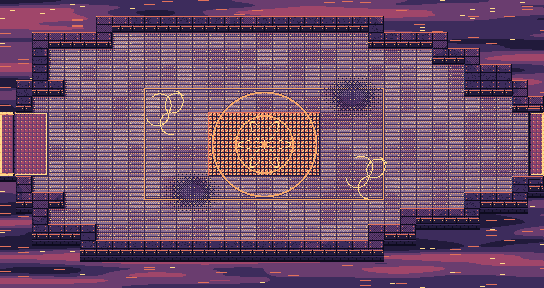
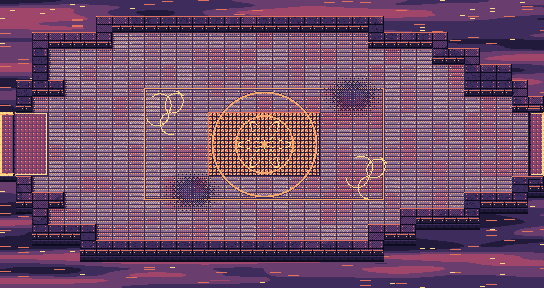
Luxel Epic: The Long Night integration pass

diff --git a/tools/epic/themes/island_3_4.py b/tools/epic/themes/island_3_4.py
@@ -154,11 +154,11 @@ class HollowOakPainter(ThemePainter):
         edge_e = (~ctx["n_rt_path"]) & (lx == ts - 1)
         is_edge = edge_n | edge_s | edge_w | edge_e
 
-        # Warm heartwood boardwalk / woven-bark walkway
-        out = ramp_blend(("plum", "wine", "mauve"), np.clip(nb * 0.55 + 0.35, 0.0, 0.999), bg)
+        # Warm heartwood boardwalk / woven-bark walkway (calm, cohesive with living bark)
+        out = ramp_blend(("dusk", "plum", "wine"), np.clip(nb * 0.50 + 0.36, 0.0, 0.999), bg)
         # Wide calm 8px bark-plank seams
-        out = np.where((ly % 8 == 0) & (bg < 0.58), IX["dusk"], out)
-        out = np.where((ly % 8 == 1) & (nb > 0.52) & (bg < 0.36), IX["coral"], out)
+        out = np.where((ly % 8 == 0) & (bg < 0.58), IX["night"], out)
+        out = np.where((ly % 8 == 1) & (nb > 0.55) & (bg < 0.34), IX["mauve"], out)
         # Warm amber sap-studs near walkway edges
         in_edge = (
             ((~ctx["n_up_path"]) & (ly == 1))
@@ -167,7 +167,7 @@ class HollowOakPainter(ThemePainter):
             | ((~ctx["n_rt_path"]) & (lx == ts - 2))
         )
         out = np.where(in_edge & (((xs + ys) % 6) == 0), IX["apricot"], out)
-        out = np.where(is_edge & (bg < 0.78), IX["dusk"], out)
+        out = np.where(is_edge & (bg < 0.78), IX["night"], out)
         buf[mask] = out[mask]
 
     def paint_walls(self, buf: np.ndarray, ctx: dict[str, Any]) -> None:
@@ -247,14 +247,15 @@ class HollowOakPainter(ThemePainter):
             sh_ring = (~m_wall) & (~over) & ctx["m_walk"] & (dist_w <= 7.5) & (root_n > 0.52) & (bg < 0.35)
             buf[sh_ring] = SHADE_IX[buf[sh_ring]]
 
-        # 3. Terraced glowing shelf-fungus brackets clinging to south-facing bark walls!
+        # 3. Terraced glowing shelf-fungus brackets clinging to interior south-facing bark walls (skip map bottom row)
+        interior_south = m_wall & dn_open & (ctx["ty"] < ctx["h_t"] - 1)
         bx_id = xs // 24
         by_id = ys // ts
         bh = hash01_grid(bx_id, by_id, s.seed + 631)
         fx = (xs % 24) - 12
         fy = ly - (ts - 4)
         # Organic half-oval shelf fungus cap (width ~9px, height ~3px) on selected wall segments
-        has_fungus = m_wall & dn_open & (bh > 0.56)
+        has_fungus = interior_south & (bh > 0.56)
         cap = has_fungus & ((fx * fx) / 20.0 + (fy * fy) / 4.5 <= 1.0) & (fy <= 1)
         cap_top = cap & (fy <= -1)
         cap_mid = cap & (fy == 0)
@@ -266,10 +267,10 @@ class HollowOakPainter(ThemePainter):
         under_f = has_fungus & (ly == ts - 2) & (np.abs(fx) <= 4)
         buf[under_f] = IX["void"]
 
-        # 4. Warm sap-light hollows nestled in bark faces (opposite segments from shelf fungus)
-        sap_seg = m_wall & dn_open & (bh < 0.24) & (np.abs(fx) <= 2) & (ly >= ts - 5) & (ly <= ts - 2)
+        # 4. Warm sap-light hollows nestled in interior bark faces (opposite segments from shelf fungus)
+        sap_seg = interior_south & (bh < 0.24) & (np.abs(fx) <= 2) & (ly >= ts - 5) & (ly <= ts - 2)
         buf[sap_seg] = IX["coral"]
-        sap_core = m_wall & dn_open & (bh < 0.24) & (np.abs(fx) <= 1) & (ly >= ts - 4) & (ly <= ts - 3)
+        sap_core = interior_south & (bh < 0.24) & (np.abs(fx) <= 1) & (ly >= ts - 4) & (ly <= ts - 3)
         buf[sap_core] = IX["gold"]
 
         # 5. Subtle mossy root coping overhanging water basins (softens square pools like oak_r4b!)
@@ -325,38 +326,39 @@ class ConservatoryPainter(ThemePainter):
         slab_h = hash01_grid((xs + ox) // sw, row_id, s.seed + 61)
 
         if sunlit:
-            # Warm sunlit conservatory limestone (harmonious with r1..r14, NOT orange desert sand!)
-            slab_f = np.clip(nb * 0.45 + slab_h * 0.35 + warm * 0.16, 0.0, 0.999)
-            out = ramp_blend(("dusk", "plum", "mauve", "stone"), slab_f, bg)
+            # Warm sunlit conservatory limestone (calm mid-bright ~95-110 luma, NOT blinding orange desert sand!)
+            slab_f = np.clip(nb * 0.45 + slab_h * 0.35 + warm * 0.14, 0.0, 0.999)
+            out = ramp_blend(("dusk", "plum", "mauve", "mauve"), slab_f, bg)
             is_seam = (sx == 0) | (sy == 0)
-            is_bev = (sy == 1) & (sx > 1) & (sx < sw - 2) & ((slab_h > 0.42) | (bg < 0.35))
-            out = np.where(is_bev, IX["cream"], out)
+            is_bev = (sy == 1) & (sx > 1) & (sx < sw - 2) & ((slab_h > 0.48) | (bg < 0.30))
+            out = np.where(is_bev, IX["stone"], out)
             out = np.where(is_seam & (bg < 0.72), IX["dusk"], out)
             # Soft warm sunlit conservatory glass rays drifting diagonally across limestone
-            ray = ((xs - ys * 0.55) % 64.0)
-            in_ray = (ray >= 12.0) & (ray <= 28.0) & (nb > 0.38)
-            out = np.where(in_ray & (~is_seam) & (bg < 0.28), IX["gold"], out)
-            # Occasional delicate rose/sky stained-glass floor reflection
-            pane_tint = ((xs - ys * 0.55) % 96.0)
-            out = np.where((pane_tint >= 52.0) & (pane_tint <= 64.0) & (~is_seam) & (bg < 0.22), IX["rose"], out)
+            ray = (xs - ys * 0.55) % 68.0
+            in_ray = (ray >= 12.0) & (ray <= 26.0) & (nb > 0.38)
+            out = np.where(in_ray & (~is_seam) & (bg < 0.34), IX["stone"], out)
+            out = np.where(in_ray & (~is_seam) & (nb > 0.58) & (bg < 0.22), IX["gold"], out)
+            # Occasional delicate rose stained-glass floor reflection
+            pane_tint = (xs - ys * 0.55) % 96.0
+            out = np.where((pane_tint >= 52.0) & (pane_tint <= 64.0) & (~is_seam) & (bg < 0.20), IX["rose"], out)
         else:
             # Wet stained-glass glasshouse flagstones (target walk_lum ~76-84)
             slab_f = np.clip(nb * 0.48 + slab_h * 0.36 + warm * 0.10, 0.0, 0.999)
-            out = ramp_blend(("dusk", "plum", "mauve"), slab_f, bg)
+            out = ramp_blend(("dusk", "dusk", "plum", "mauve"), slab_f, bg)
             is_seam = (sx == 0) | (sy == 0)
-            is_bev = (sy == 1) & (sx > 1) & (sx < sw - 2) & ((slab_h > 0.48) | (bg < 0.28))
+            is_bev = (sy == 1) & (sx > 1) & (sx < sw - 2) & ((slab_h > 0.52) | (bg < 0.24))
             out = np.where(is_bev, IX["stone"], out)
-            out = np.where(is_seam & (bg < 0.76), IX["night"], out)
+            out = np.where(is_seam & (bg < 0.78), IX["night"], out)
             # Subtle wet conservatory skylight reflections (diagonal stained-glass pools!)
             diag = (xs - ys * 0.6) % 72.0
-            pool_a = (diag >= 10.0) & (diag <= 22.0) & (nb > 0.45) & (~is_seam)
-            pool_b = (diag >= 42.0) & (diag <= 52.0) & (nb > 0.50) & (~is_seam)
-            out = np.where(pool_a & (bg < 0.26), IX["sky"], out)
-            out = np.where(pool_b & (bg < 0.22), IX["rose"], out)
+            pool_a = (diag >= 10.0) & (diag <= 22.0) & (nb > 0.48) & (~is_seam)
+            pool_b = (diag >= 42.0) & (diag <= 52.0) & (nb > 0.52) & (~is_seam)
+            out = np.where(pool_a & (bg < 0.24), IX["sky"], out)
+            out = np.where(pool_b & (bg < 0.20), IX["rose"], out)
             # Wet moss tucked softly into seams near water
             near_w = ctx["n_up_water"] | ctx["n_dn_water"] | ctx["n_lt_water"] | ctx["n_rt_water"]
             out = np.where(near_w & is_seam & (bg < 0.65), IX["teal"], out)
-            out = np.where(near_w & (nf < 0.05), IX["jade"], out)
+            out = np.where(near_w & (nf < 0.04), IX["jade"], out)
 
         buf[mask] = out[mask]
 
@@ -383,10 +385,10 @@ class ConservatoryPainter(ThemePainter):
             | ((~ctx["n_rt_path"]) & (lx == ts - 2))
         )
 
-        main = IX["stone"] if sunlit else IX["mauve"]
-        hi = IX["cream"] if sunlit else IX["stone"]
-        edge_c = IX["plum"] if sunlit else IX["dusk"]
-        trim_c = IX["gold"]
+        main = IX["mauve"] if sunlit else IX["plum"]
+        hi = IX["stone"] if sunlit else IX["mauve"]
+        edge_c = IX["dusk"]
+        trim_c = IX["gold"] if sunlit else IX["apricot"]
 
         out = np.full(buf.shape, main, dtype=np.uint8)
         out = np.where((nb > 0.54) & (bg < 0.42), hi, out)
@@ -439,8 +441,8 @@ class ConservatoryPainter(ThemePainter):
         out = np.where(mullion, IX["night"], out)
         out = np.where((rib_x == 2) & (rib_y > 1), IX["dusk"], out)
 
-        # South-facing glasshouse wall with arched stained-glass lancets & broken panes
-        south = dn_open & (ly >= ts - 7)
+        # South-facing glasshouse wall with arched stained-glass lancets & broken panes (interior walls only)
+        south = dn_open & (ly >= ts - 7) & (ctx["ty"] < ctx["h_t"] - 1)
         out = np.where(south & (ly == ts - 7), IX["stone"], out)  # carved limestone cornice
         out = np.where(south & (ly > ts - 7) & (ly < ts - 1), IX["dusk"], out)
         # Stained-glass lancet windows every 24px (width 10px: rib_x 7..16)
@@ -502,15 +504,16 @@ class ConservatoryPainter(ThemePainter):
         out = np.where((mist > 0.62) & (bg < 0.45), IX["deep"], np.where((mist > 0.46) & (bg < 0.50), IX["night"], IX["void"]))
 
         # Diagonal wrought-iron conservatory rafters & skylight truss grid receding in the chasm
-        rafter_a = np.abs(((xs + ys) % 48) - 24) <= 1
-        rafter_b = np.abs(((xs - ys) % 48) - 24) <= 1
+        rafter_a = np.abs(((xs + ys) % 44) - 22) <= 1
+        rafter_b = np.abs(((xs - ys) % 44) - 22) <= 1
         cross_rib = (ys % 32 == 16)
         truss = rafter_a | rafter_b | cross_rib
-        out = np.where(truss & (bg < 0.65), IX["night"], out)
-        # Subtle moonlight gleam on iron truss intersections
+        out = np.where(truss & (bg < 0.78), IX["night"], out)
+        # Clearer wrought-iron skylight rib catchlights tying floating islands together
         joint = rafter_a & rafter_b
-        out = np.where(joint, IX["dusk"], out)
-        out = np.where(truss & ((xs % 48 == 24) | (ys % 32 == 16)) & (bg < 0.25), IX["deep"], out)
+        out = np.where(joint, IX["mauve"], out)
+        out = np.where((rafter_a | rafter_b) & (bg < 0.35), IX["dusk"], out)
+        out = np.where(cross_rib & (bg < 0.45), IX["deep"], out)
 
         # Tiny twilight stars / drifting conservatory pollen
         st = hash01_grid(xs, ys, s.seed + 433)
@@ -609,10 +612,10 @@ class RainMausoleumPainter(ThemePainter):
         sy = ys % sh
         slab_h = hash01_grid((xs + ox) // sw, row_id, s.seed + 59)
 
-        slab_f = np.clip(nb * 0.48 + slab_h * 0.38 + warm * 0.08, 0.0, 0.999)
-        out = ramp_blend(("dusk", "plum", "mauve"), slab_f, bg)
+        slab_f = np.clip(nb * 0.48 + slab_h * 0.36 + warm * 0.08, 0.0, 0.999)
+        out = ramp_blend(("dusk", "dusk", "plum", "mauve"), slab_f, bg)
         is_seam = (sx == 0) | (sy == 0)
-        is_bev = (sy == 1) & (sx > 1) & (sx < sw - 2) & ((slab_h > 0.44) | (bg < 0.28))
+        is_bev = (sy == 1) & (sx > 1) & (sx < sw - 2) & ((slab_h > 0.50) | (bg < 0.24))
         out = np.where(is_bev, IX["stone"], out)
         out = np.where(is_seam & (bg < 0.78), IX["night"], out)
 
@@ -660,9 +663,10 @@ class RainMausoleumPainter(ThemePainter):
         bg = ctx["bg"]
         s = self.spec
 
-        # 1. Carved arched mausoleum niches every 32px along south-facing crypt walls
+        # 1. Carved arched mausoleum niches every 32px along interior south-facing crypt walls
+        interior_south = m_wall & dn_open & (ctx["ty"] < ctx["h_t"] - 1)
         ax = xs % 32
-        niche_zone = m_wall & dn_open & (ly >= ts - 6) & (ly <= ts - 2)
+        niche_zone = interior_south & (ly >= ts - 6) & (ly <= ts - 2)
         in_niche = niche_zone & (ax >= 12) & (ax <= 19) & ~((ly == ts - 6) & ((ax == 12) | (ax == 19)))
         # Carved arch frame outline
         niche_rim = (
@@ -681,7 +685,7 @@ class RainMausoleumPainter(ThemePainter):
         buf[urn_lip] = IX["mauve"]
 
         # 2. Vertical rain-streak gloss lines running down south stone faces (between niches)
-        streak = m_wall & dn_open & (~in_niche) & (ly >= ts - 5) & (ly < ts - 1) & ((xs % 11) == 3)
+        streak = interior_south & (~in_niche) & (ly >= ts - 5) & (ly < ts - 1) & ((xs % 11) == 3)
         buf[streak] = IX["sky"]
 
         # 3. Projecting carved stone pilasters & chamfered corner buttresses breaking 12/12 flat boxes
@@ -722,17 +726,17 @@ class CanopySprintPainter(ThemePainter):
         warm = ctx["warm"]
         s = self.spec
 
-        # Warm living oak-branch deck planking (NOT grey stone sewer bricks!)
-        ph = 6
+        # Warm living oak-branch deck planking (calm ~78 luma, NOT grey stone sewer bricks!)
+        ph = 8
         pr = ys // ph
         py = ys % ph
-        butt = (xs + pr * 13) % 28
-        phash = hash01_grid((xs + pr * 13) // 28, pr, s.seed + 73)
-        field = np.clip(nb * 0.45 + phash * 0.35 + warm * 0.14, 0.0, 0.999)
-        out = ramp_blend(("dusk", "plum", "wine", "mauve"), field, bg)
-        out = np.where((py == 0) & (bg < 0.58), IX["night"], out)
-        out = np.where((butt == 0) & (py > 0) & (bg < 0.45), IX["night"], out)
-        out = np.where((py == 1) & (phash > 0.62) & (bg < 0.35), IX["coral"], out)
+        butt = (xs + pr * 15) % 32
+        phash = hash01_grid((xs + pr * 15) // 32, pr, s.seed + 73)
+        field = np.clip(nb * 0.45 + phash * 0.32 + warm * 0.12, 0.0, 0.999)
+        out = ramp_blend(("dusk", "plum", "plum", "wine"), field, bg)
+        out = np.where((py == 0) & (bg < 0.56), IX["night"], out)
+        out = np.where((butt == 0) & (py > 0) & (bg < 0.44), IX["night"], out)
+        out = np.where((py == 1) & (phash > 0.68) & (bg < 0.32), IX["mauve"], out)
 
         # Mossy canopy fringe bordering the platform edges over the abyss
         abyss = ctx["m_pit"] | ctx["m_void"] | ctx["m_phantom"]

diff --git a/tools/epic/themes/island_5_6.py b/tools/epic/themes/island_5_6.py
@@ -312,7 +312,7 @@ SPECS_5_6: list[tuple[ThemeSpec, type[ThemePainter]]] = [
             name="The Ember Express (Roof)",
             island=6,
             floor_style="train_roof_plate",
-            floor_ramp=("plum", "mauve", "stone"),
+            floor_ramp=("wine", "mauve", "stone"),
             floor_seam="dusk",
             floor_bevel="apricot",
             floor_accent_a="gold",
